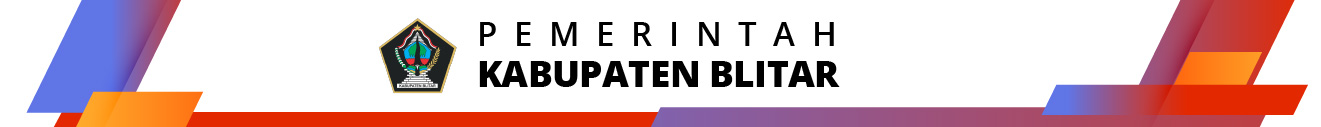
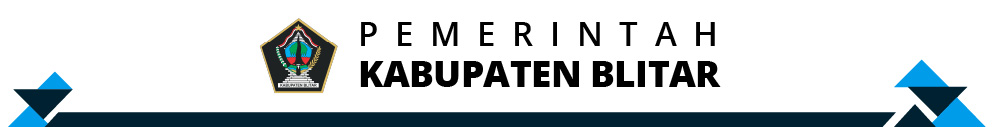
new 1.1.4

diff --git a/index.html b/index.html
@@ -49,6 +49,9 @@
 <body>
 
   <!-- ======= Header ======= -->
+  <div class="container-xl text-center d-none d-md-block">
+    <img src="files/header_pemkab.jpg" alt="" class="img-fluid">
+  </div>
   <header id="header" class="d-flex align-items-center">
     <div class="container-xl d-flex align-items-center justify-content-between">
       <nav id="navbar" class="navbar order-lg-0">
@@ -138,7 +141,7 @@
     
             </div>
 
-              <div class="hero-title d-flex align-items-center">
+              <div class="hero-title d-flex align-items-center d-md-none">
                 <div class="hero-text w-100">
                   <div class="container">
                     <h1>Kabupaten Blitar</h1>
@@ -417,7 +420,7 @@
     <section id="clients" class="saber">
       <div class="container-lg">
       <div class="mb-4">
-        <img src="files/stop.png" class="col-sm-6 img-fluid bg-white mb-2 p-2 mx-auto d-flex" alt="">
+        <img src="files/stop.png" class="col-md-6 img-fluid bg-white mb-2 p-2 mx-auto d-flex" alt="">
       </div>
       <div class="px-2 px-lg-5">
 
@@ -628,7 +631,8 @@
         <!-- You can delete the links only if you purchased the pro version. -->
         <!-- Licensing information: https://bootstrapmade.com/license/ -->
         <!-- Purchase the pro version with working PHP/AJAX contact form: https://bootstrapmade.com/scaffold-bootstrap-metro-style-template/ -->
-        Designed by <a href="https://bootstrapmade.com/">BootstrapMade</a>
+        <!-- Designed by <a href="https://bootstrapmade.com/">BootstrapMade</a> -->
+        <script>document.write(new Date().getFullYear())</script>
       </div>
     </div>
   </footer><!-- End Footer -->

diff --git a/halaman.html b/halaman.html
@@ -49,6 +49,9 @@
 <body>
 
   <!-- ======= Header ======= -->
+  <div class="container-xl text-center d-none d-md-block">
+    <img src="files/header_pemkab.jpg" alt="" class="img-fluid">
+  </div>
   <header id="header" class="d-flex align-items-center">
     <div class="container-xl d-flex align-items-center justify-content-between">
       <nav id="navbar" class="navbar order-lg-0">
@@ -249,7 +252,8 @@
         <!-- You can delete the links only if you purchased the pro version. -->
         <!-- Licensing information: https://bootstrapmade.com/license/ -->
         <!-- Purchase the pro version with working PHP/AJAX contact form: https://bootstrapmade.com/scaffold-bootstrap-metro-style-template/ -->
-        Designed by <a href="https://bootstrapmade.com/">BootstrapMade</a>
+        <!-- Designed by <a href="https://bootstrapmade.com/">BootstrapMade</a> -->
+        <script>document.write(new Date().getFullYear())</script>
       </div>
     </div>
   </footer><!-- End Footer -->

diff --git a/assets/js/main.js b/assets/js/main.js
@@ -230,7 +230,10 @@
         slidesPerView: 1,
         spaceBetween: 20
       },
-
+      600: {
+        slidesPerView: 2,
+        spaceBetween: 20
+      },
       1200: {
         slidesPerView: 4,
         spaceBetween: 20

diff --git a/assets/css/style.css b/assets/css/style.css
@@ -1793,7 +1793,7 @@ section {
   padding: 10px 0px;
 }
 .pungli-item h3 {
-  font-size: 18px;
+  font-size: 1rem;
   font-weight: bold;
   /* margin: 10px 0 5px 45px; */
   color: #009cea;
